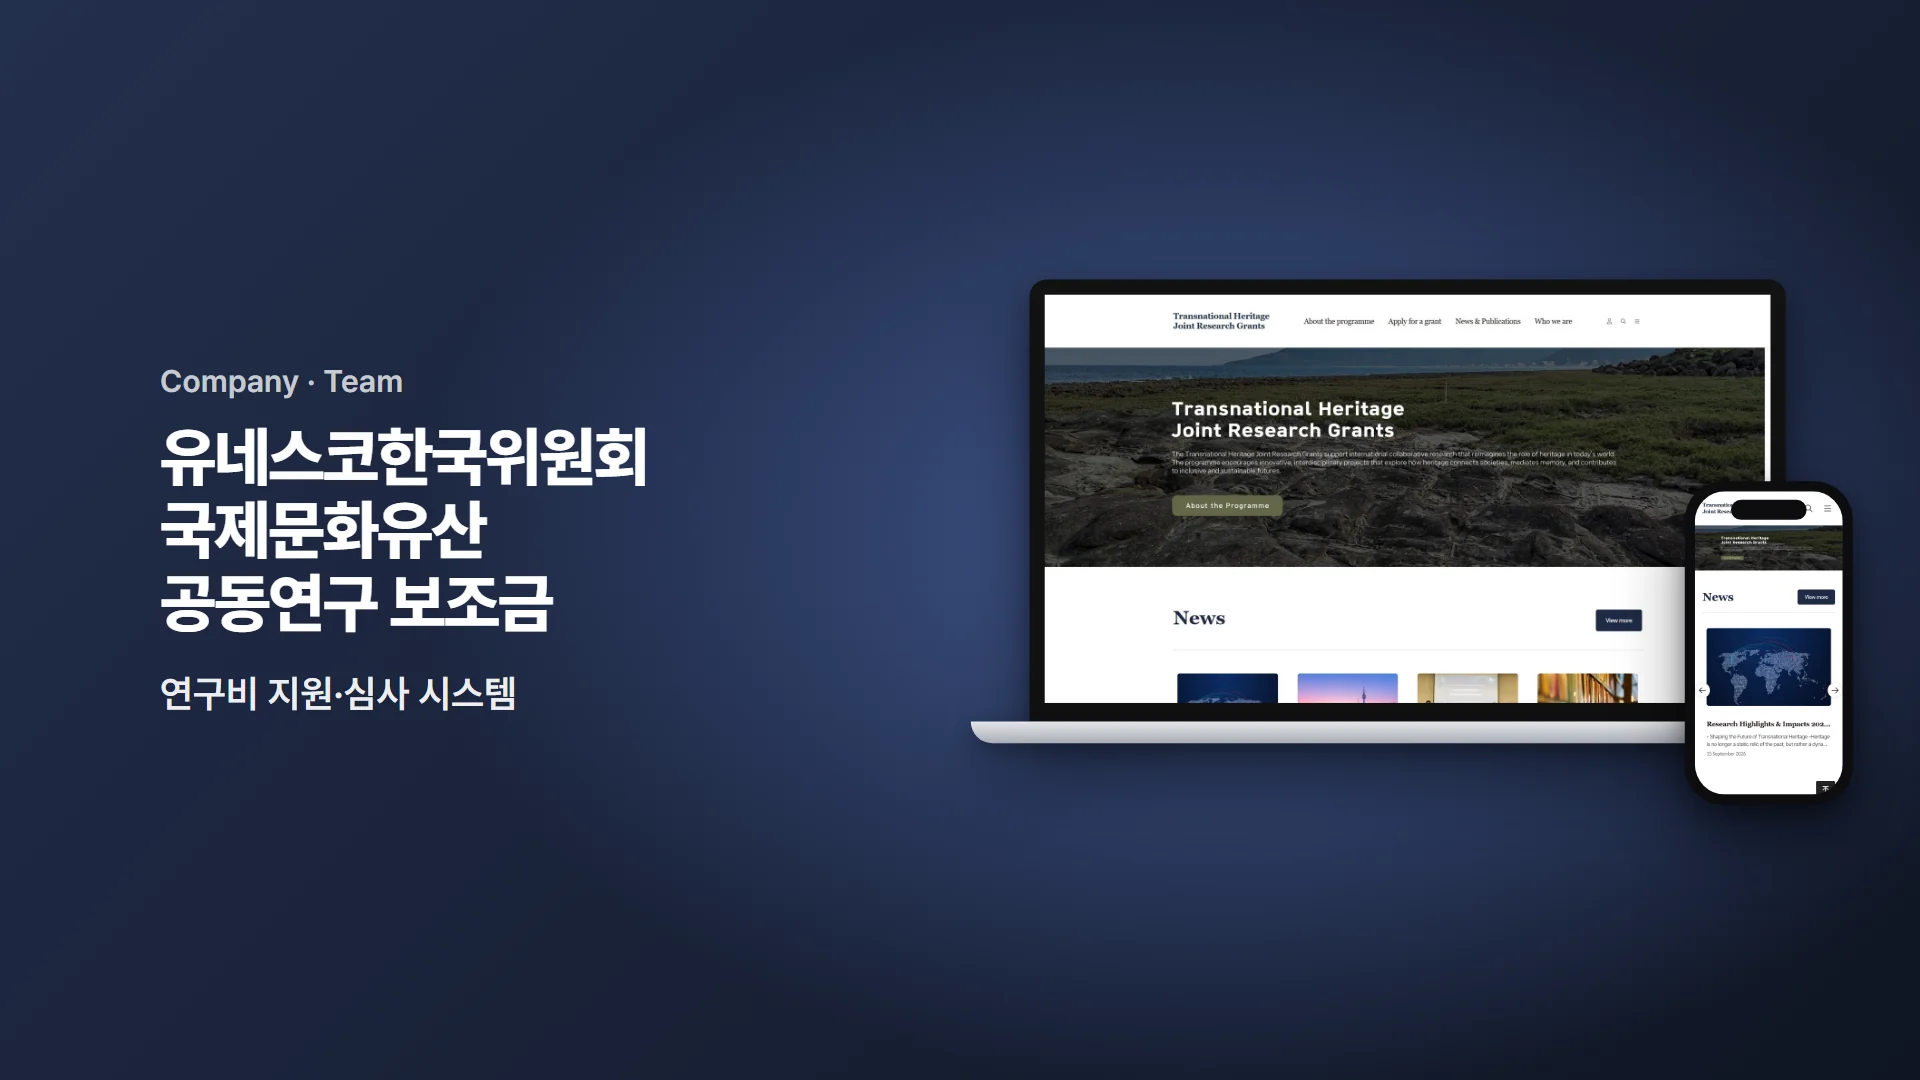
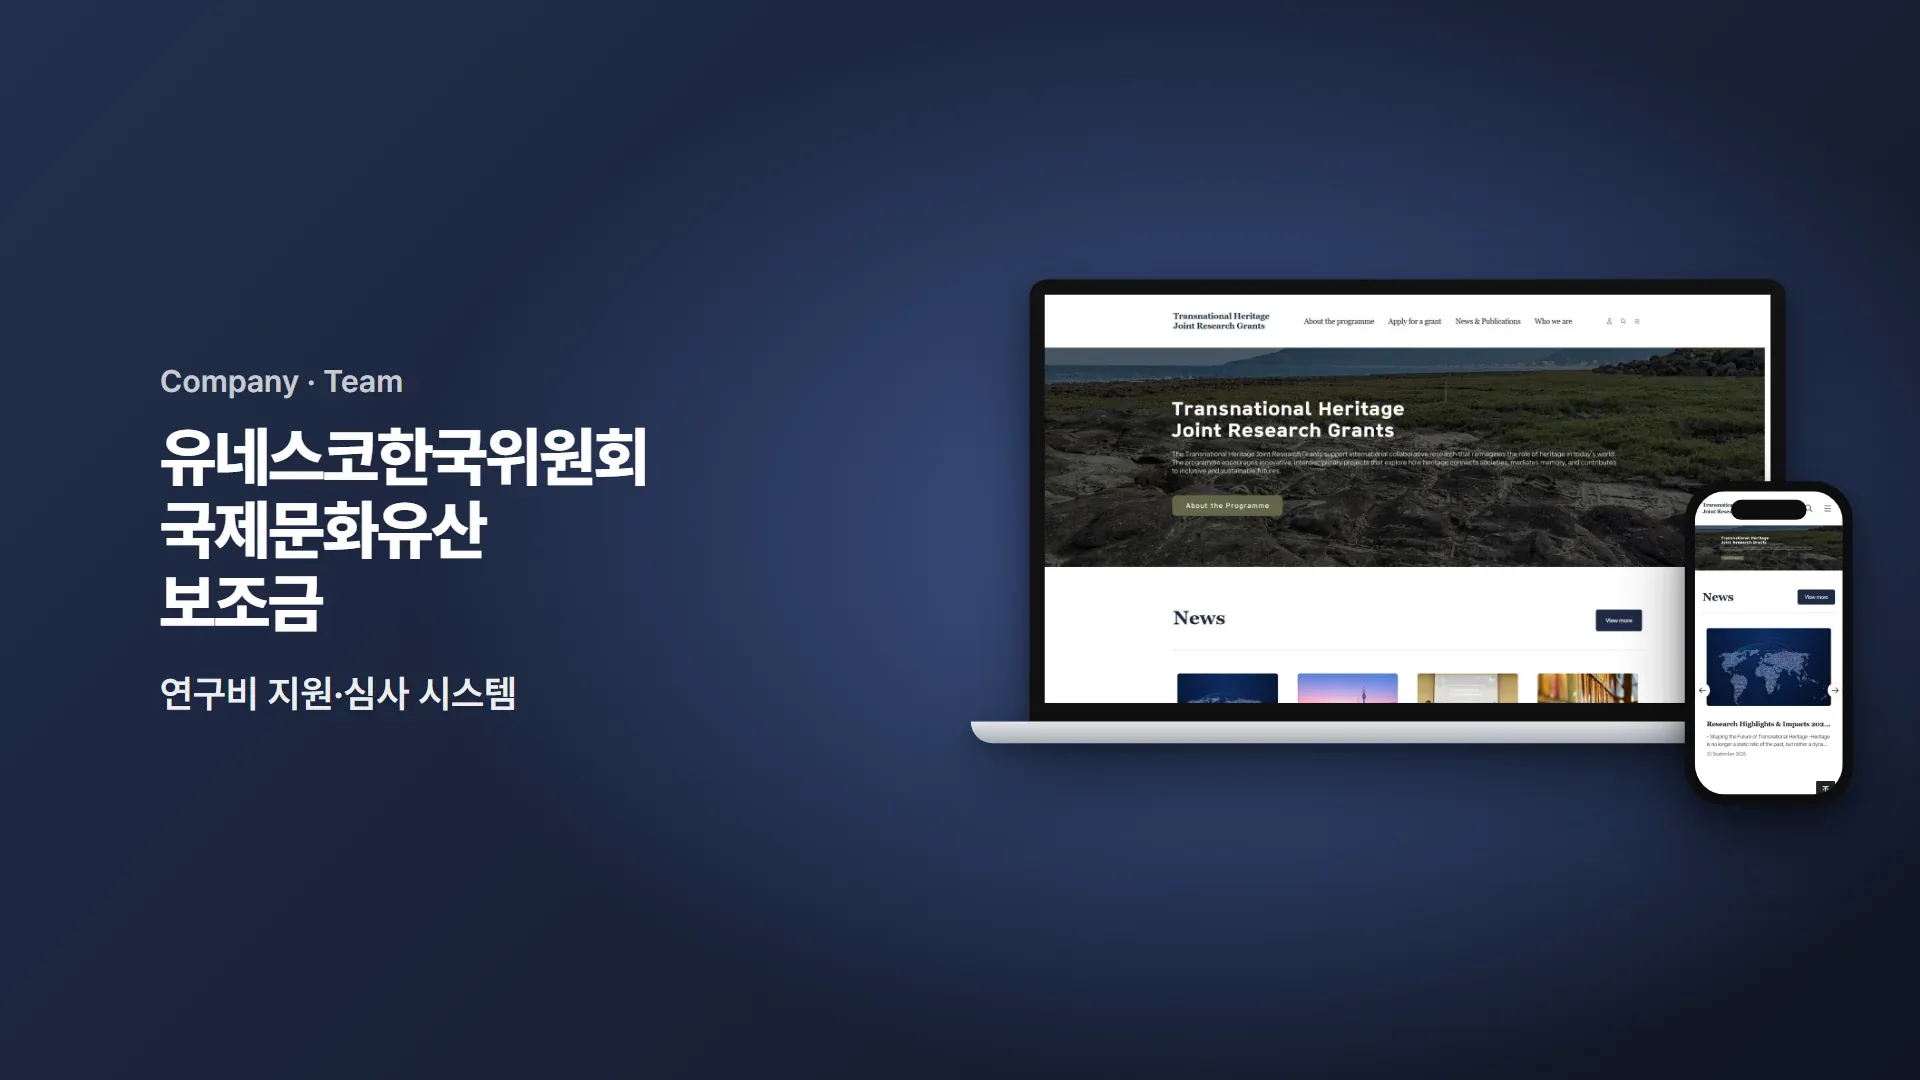
docs: 유네스코 프로젝트 이름을 국제문화유산 보조금으로 변경
- 제목, 부제, 상세 md 문구와 이미지 대체 텍스트 변경
- 썸네일 제목 셋째 줄을 "공동연구 보조금"에서 "보조금"으로 변경

Claude-Session: https://claude.ai/code/session_01LP9xbQXyFgUAXQVzaHFoDe

Changed region(s): [[0.0625, 0.5194, 0.3125, 0.5806]]

diff --git a/public/images/portfolio/projects/40/40.md b/public/images/portfolio/projects/40/40.md
@@ -1,10 +1,10 @@
 ## Overview
 
-유네스코한국위원회가 운영하는 국제문화유산 공동연구 보조금 사업(Transnational Heritage Joint Research Grants)의 영문 반응형 홈페이지입니다. 사업 소개와 지원사업 검색 같은 공개 화면에 더해, 연구비 신청을 받는 심사 시스템과 심사자가 과제를 평가하는 심사자 시스템의 프론트엔드를 개발했습니다. 신청부터 심사 결과 확인까지 이어지는 흐름을 화면으로 구성했습니다.
+유네스코한국위원회가 운영하는 국제문화유산 보조금 사업(Transnational Heritage Joint Research Grants)의 영문 반응형 홈페이지입니다. 사업 소개와 지원사업 검색 같은 공개 화면에 더해, 연구비 신청을 받는 심사 시스템과 심사자가 과제를 평가하는 심사자 시스템의 프론트엔드를 개발했습니다. 신청부터 심사 결과 확인까지 이어지는 흐름을 화면으로 구성했습니다.
 
 ## Work
 
-팀 프로젝트로 국제문화유산 공동연구 보조금 사업 홈페이지와 연구비 심사·심사자 시스템의 프론트엔드 개발에 참여했습니다.
+팀 프로젝트로 국제문화유산 보조금 사업 홈페이지와 연구비 심사·심사자 시스템의 프론트엔드 개발에 참여했습니다.
 
 ### 공개 화면과 지원사업 검색
 - 메인 뉴스와 Upcoming Events 슬라이드를 Swiper/bxSlider로 구현했습니다.
@@ -26,16 +26,16 @@
 
 ## Screenshots
 
-![유네스코한국위원회 국제문화유산 공동연구 보조금 화면 1](/images/portfolio/projects/40/images1.webp)
+![유네스코한국위원회 국제문화유산 보조금 화면 1](/images/portfolio/projects/40/images1.webp)
 
-![유네스코한국위원회 국제문화유산 공동연구 보조금 화면 2](/images/portfolio/projects/40/images2.webp)
+![유네스코한국위원회 국제문화유산 보조금 화면 2](/images/portfolio/projects/40/images2.webp)
 
-![유네스코한국위원회 국제문화유산 공동연구 보조금 화면 3](/images/portfolio/projects/40/images3.webp)
+![유네스코한국위원회 국제문화유산 보조금 화면 3](/images/portfolio/projects/40/images3.webp)
 
-![유네스코한국위원회 국제문화유산 공동연구 보조금 화면 4](/images/portfolio/projects/40/images4.webp)
+![유네스코한국위원회 국제문화유산 보조금 화면 4](/images/portfolio/projects/40/images4.webp)
 
-![유네스코한국위원회 국제문화유산 공동연구 보조금 화면 5](/images/portfolio/projects/40/images5.webp)
+![유네스코한국위원회 국제문화유산 보조금 화면 5](/images/portfolio/projects/40/images5.webp)
 
-![유네스코한국위원회 국제문화유산 공동연구 보조금 화면 6](/images/portfolio/projects/40/images6.webp)
+![유네스코한국위원회 국제문화유산 보조금 화면 6](/images/portfolio/projects/40/images6.webp)
 
-![유네스코한국위원회 국제문화유산 공동연구 보조금 화면 7](/images/portfolio/projects/40/images7.webp)
+![유네스코한국위원회 국제문화유산 보조금 화면 7](/images/portfolio/projects/40/images7.webp)
